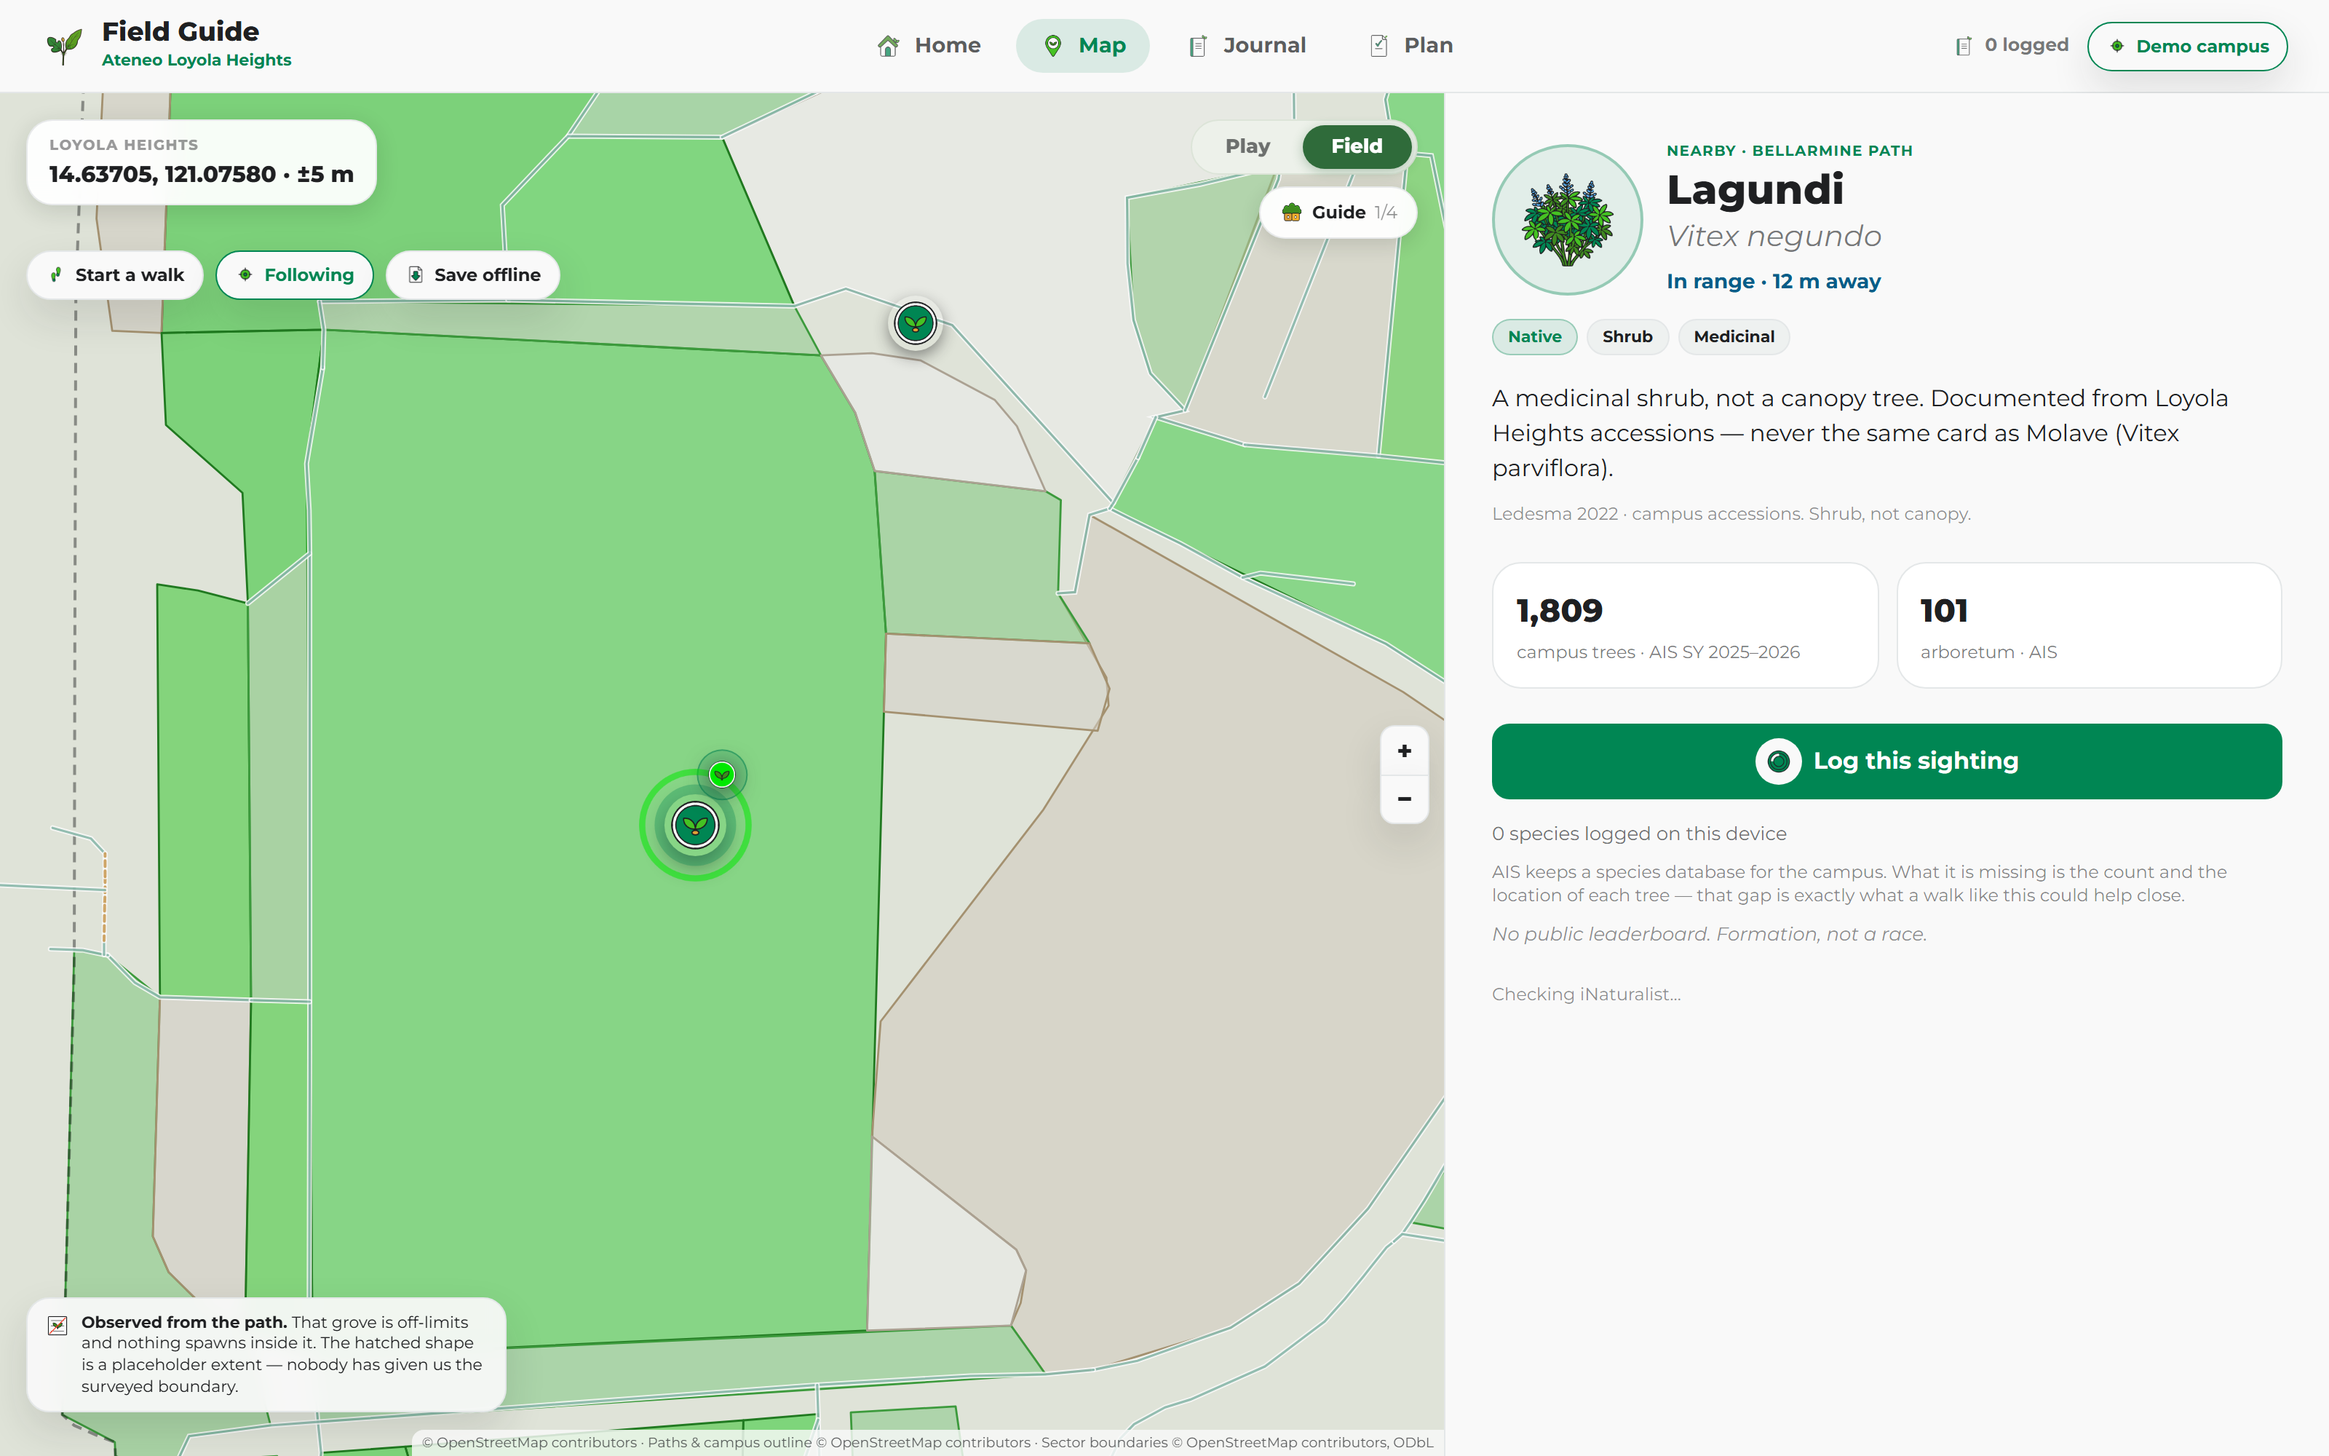
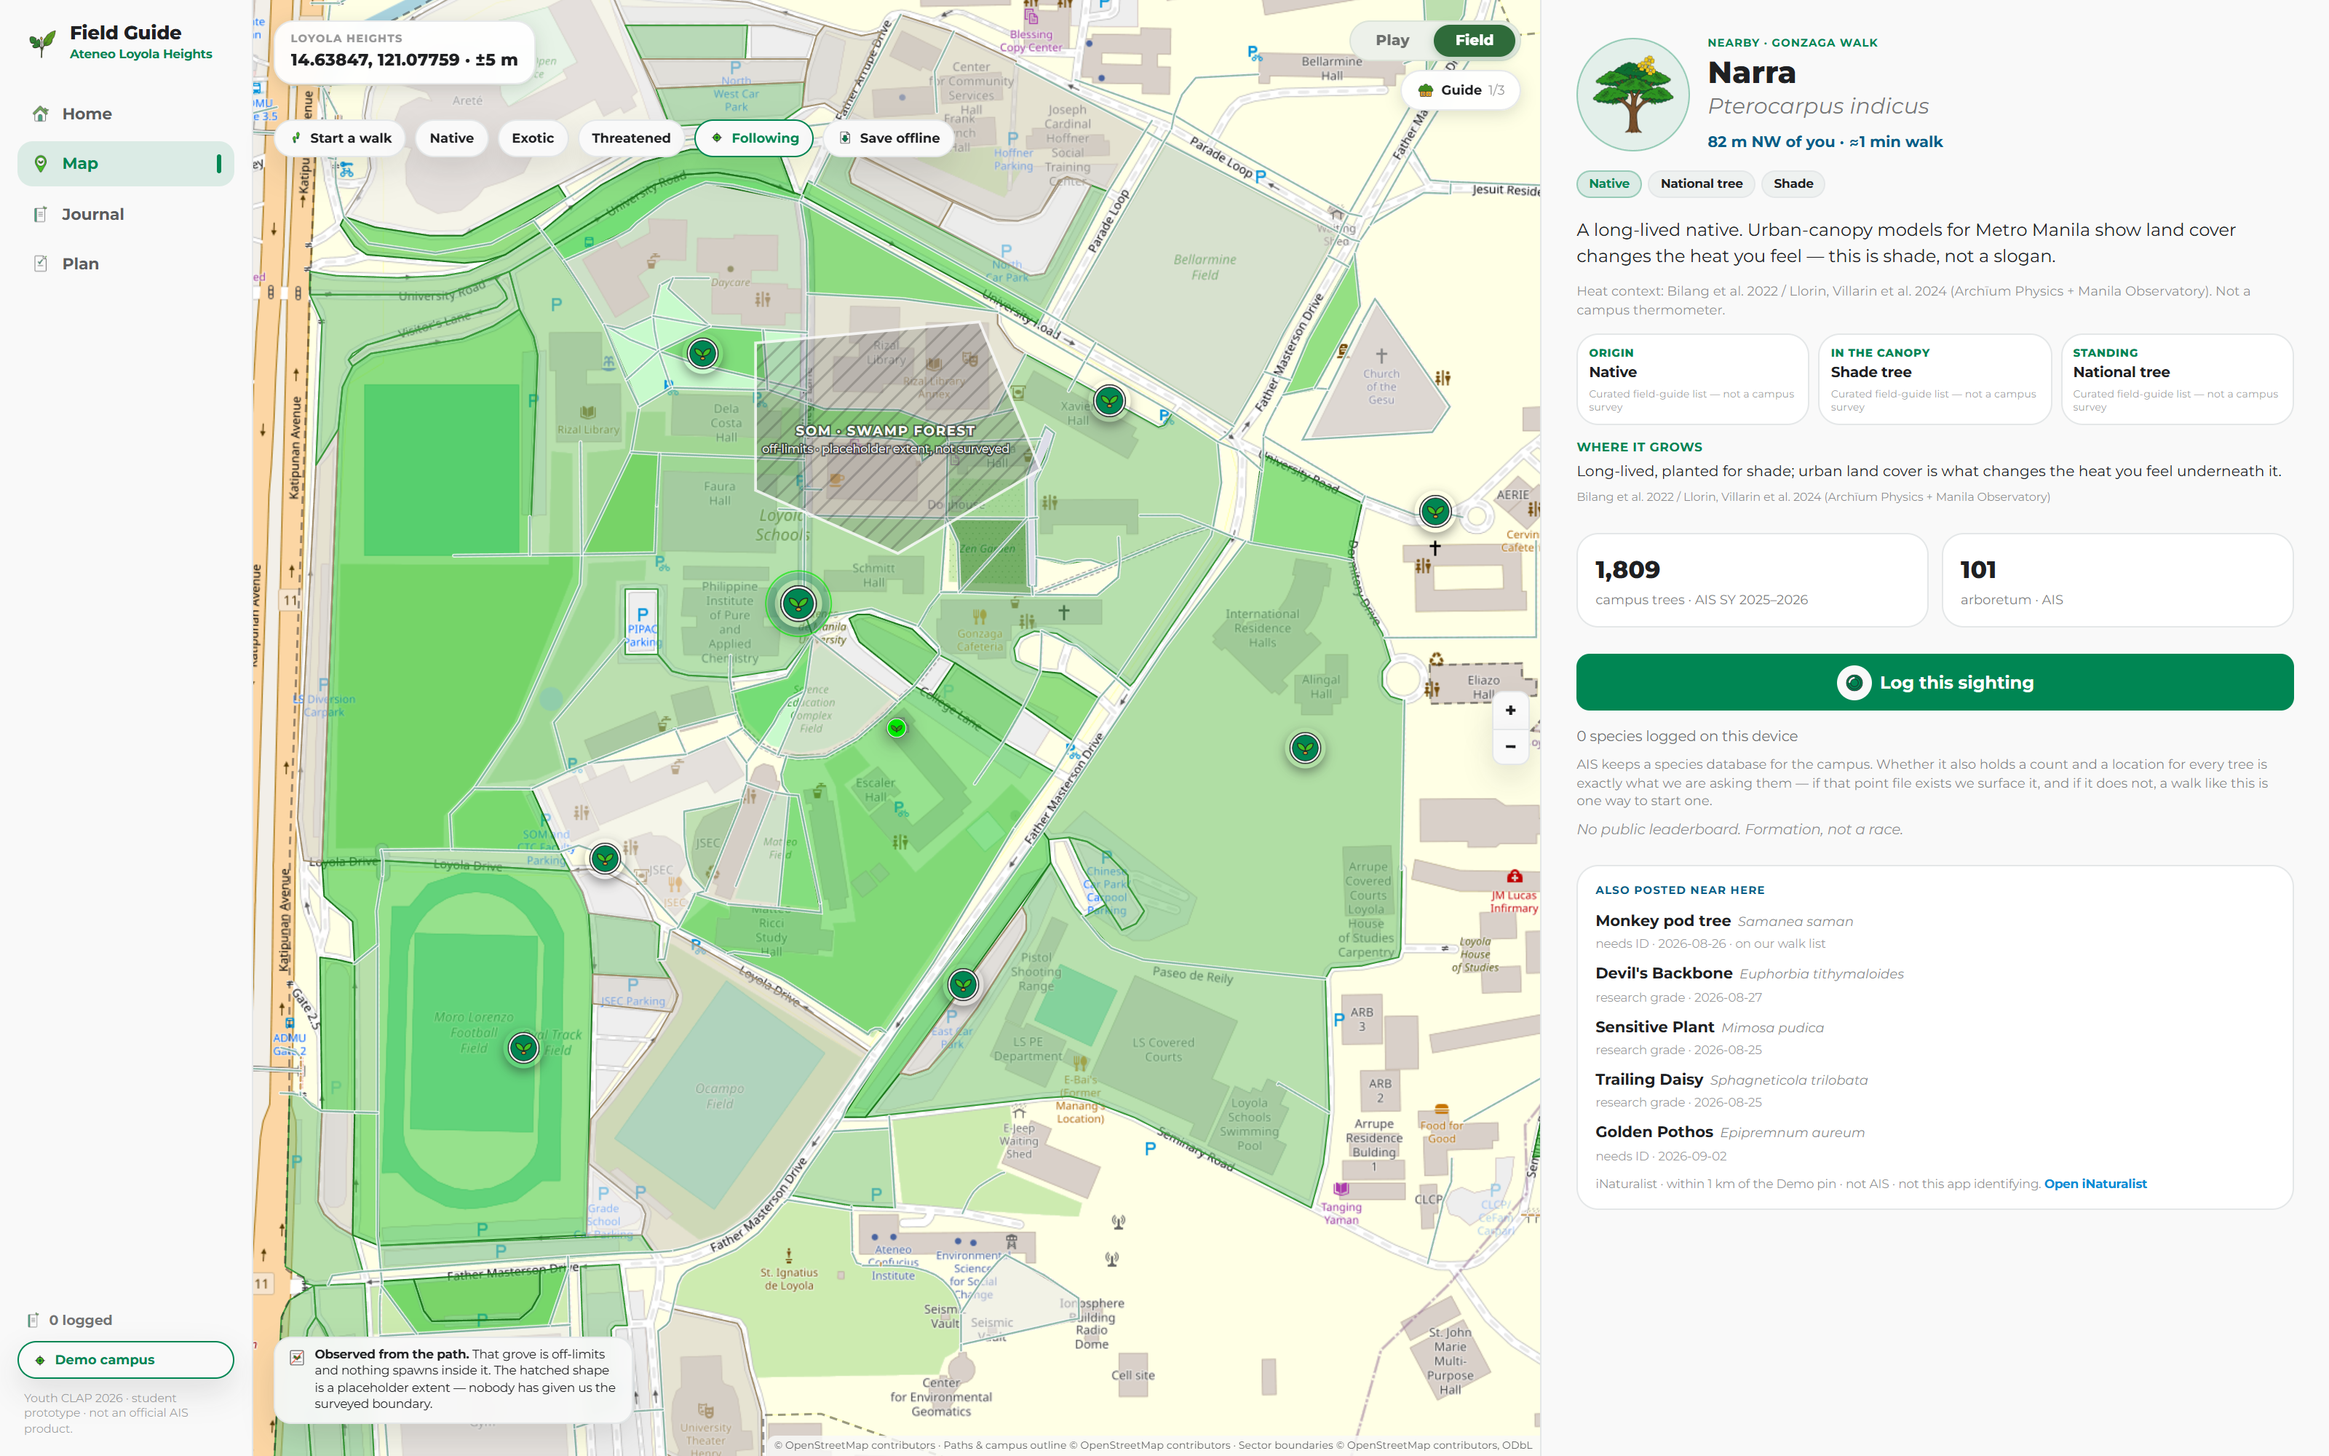
A desktop kiosk shell, and the roadmap closed out
The last of the open 09-02 consensus rows.

DesktopRail replaces DesktopTopBar. The reason is the projector: at 1440 px a
horizontal header spends the scarcest axis - vertical - on navigation that
never changes, and the map is what the room came to see. A rail spends the
abundant axis instead. Every control the header carried is still there, in
one place, and the active route is marked by a left bar as well as a wash so
it reads in greyscale. The phone is untouched and keeps its bottom nav.

Measured, not assumed: 1600x1000 at DPR 2 gives left rail, map filling the
centre, and encounter + citations + AIS stats in the right column. At 390 px
the document overflow is 0 and the bottom nav is unchanged.

play-desktop.png and field-desktop.png re-shot against the new shell at
3200x2000, matching the originals exactly, so the deck's asset index still
points at what the app actually looks like.

ROADMAP records the ten rows closed, the six things still blocked on other
people, and one thing found on the way: tsconfig does not cover test/, so
the test files are not typechecked by the gate. The make() helper in
journal.test.ts had drifted out of sync with Sighting because of it.

Three rows were closed on inspection rather than rebuilt - the stat strip
already carried its year, sectorProgress was already wired, and report-a-tree
already had its data layer. The roadmap was stale, not the code.

Gate: build 0, test 0 (158 pass), lint 0.

diff --git a/web-forest/src/app.tsx b/web-forest/src/app.tsx
@@ -1731,7 +1731,17 @@ function PlanScreen({ is_desktop }: { is_desktop: boolean }) {
   );
 }
 
-function DesktopTopBar({
+/**
+ * The desktop shell: a persistent left rail, the map filling the centre, and
+ * the encounter + citations in a right column.
+ *
+ * This replaces a top bar. The reason is the projector: at 1440 px a
+ * horizontal header spends the scarcest axis — vertical — on navigation that
+ * never changes, and the map is the thing the room came to see. A rail spends
+ * the abundant axis instead. Every control the header carried is still here,
+ * in one place, and the phone is untouched: it keeps its bottom nav.
+ */
+function DesktopRail({
   route,
   onRoute,
   is_demo,
@@ -1755,24 +1765,32 @@ function DesktopTopBar({
     { id: "/plan", label: "Plan", Icon: PlanIcon },
   ];
   return (
-    <header
-      className="flex items-center"
-      style={{ height: 64, background: "#F9F9F9", borderBottom: "1.5px solid #E4E7E8", padding: "0 28px", flexShrink: 0 }}
+    <nav
+      className="flex flex-col"
+      style={{
+        width: is_wide ? 232 : 196,
+        flexShrink: 0,
+        height: "100%",
+        background: "#F9F9F9",
+        borderRight: "1.5px solid #E4E7E8",
+        padding: "22px 16px 18px",
+      }}
     >
       <button
         onClick={() => onRoute("/")}
         className="flex items-center gap-2.5"
-        style={{ width: is_wide ? 260 : 200, flexShrink: 0, textAlign: "left" }}
+        style={{ textAlign: "left", padding: "0 6px" }}
       >
         <PlantMark size={32} />
-        <span>
-          <span style={{ display: "block", fontWeight: 800, fontSize: 18, lineHeight: 1 }}>Field Guide</span>
+        <span style={{ minWidth: 0 }}>
+          <span style={{ display: "block", fontWeight: 800, fontSize: 17, lineHeight: 1 }}>Field Guide</span>
           <span style={{ display: "block", fontSize: 11, color: "#008653", fontWeight: 700, marginTop: 2 }}>
             Ateneo Loyola Heights
           </span>
         </span>
       </button>
-      <nav className="flex-1 flex items-center justify-center" style={{ gap: is_wide ? 8 : 2, minWidth: 0 }}>
+
+      <div className="flex flex-col" style={{ gap: 4, marginTop: 26 }}>
         {tab.map(({ id, label, Icon }) => {
           const is_active = route === id;
           return (
@@ -1780,43 +1798,58 @@ function DesktopTopBar({
               key={id}
               onClick={() => onRoute(id)}
               aria-current={is_active ? "page" : undefined}
-              className="flex items-center gap-2"
+              className="flex items-center gap-2.5"
               style={{
                 fontWeight: 700,
                 fontSize: 14.5,
                 color: is_active ? "#008653" : "rgba(31,32,34,0.72)",
                 background: is_active ? "rgba(0,134,83,0.12)" : "transparent",
-                borderRadius: RADIUS.pill,
-                padding: is_wide ? "8px 16px" : "8px 11px",
-                whiteSpace: "nowrap",
+                borderRadius: 14,
+                padding: "10px 12px",
+                textAlign: "left",
+                width: "100%",
                 transition: "background .18s ease, color .18s ease",
               }}
             >
               <Icon size={19} active={is_active} />
               {label}
+              {/* Active state is carried by the left bar as well as the wash,
+                  so the current route is readable in greyscale too. */}
+              {is_active && (
+                <span
+                  style={{
+                    marginLeft: "auto",
+                    width: 4,
+                    height: 18,
+                    borderRadius: 999,
+                    background: "#008653",
+                  }}
+                />
+              )}
             </button>
           );
         })}
-      </nav>
-      <div className="flex items-center gap-3" style={{ width: is_wide ? 260 : 200, flexShrink: 0, justifyContent: "flex-end" }}>
-        {/* Replaces a dead `EN` span that looked like a locale switcher this app
-            has never had. This one is a real number from the real journal. */}
-        {is_wide && (
-          <button
-            onClick={() => onRoute("/journal")}
-            className="flex items-center gap-1.5"
-            style={{ fontSize: 12.5, fontWeight: 700, color: "rgba(31,32,34,0.62)" }}
-          >
-            <JournalIcon size={17} active={false} />
-            {seen_count} logged
-          </button>
-        )}
+      </div>
+
+      <div style={{ marginTop: "auto", display: "flex", flexDirection: "column", gap: 10 }}>
+        {/* A real number from the real journal — never a dead locale switcher. */}
+        <button
+          onClick={() => onRoute("/journal")}
+          className="flex items-center gap-1.5"
+          style={{ fontSize: 12.5, fontWeight: 700, color: "rgba(31,32,34,0.62)", padding: "0 6px" }}
+        >
+          <JournalIcon size={17} active={false} />
+          {seen_count} logged
+        </button>
         <Chip is_on={is_demo} onClick={onDemo}>
           <LocateIcon size={15} />
           Demo campus
         </Chip>
+        <p style={{ fontSize: 10.5, color: "rgba(31,32,34,0.42)", lineHeight: 1.35, padding: "0 6px" }}>
+          Youth CLAP 2026 · student prototype · not an official AIS product.
+        </p>
       </div>
-    </header>
+    </nav>
   );
 }
 
@@ -2884,8 +2917,12 @@ export default function App() {
   return (
     <div style={{ height: "100%", background: "#F9F9F9", color: "#1F2022", overflowX: "hidden" }}>
       {is_desktop ? (
-        <div style={{ height: "100%", display: "flex", flexDirection: "column" }}>
-          <DesktopTopBar route={route} onRoute={go} is_demo={is_demo} onDemo={() => setDemo((d) => !d)} seen_count={seen.size} is_wide={is_wide} />
+        /* Rail down the left, everything else in the column beside it. The
+           inner column keeps flex-direction column so each route's own
+           flex-1 sizing is unchanged from the top-bar shell. */
+        <div style={{ height: "100%", display: "flex" }}>
+          <DesktopRail route={route} onRoute={go} is_demo={is_demo} onDemo={() => setDemo((d) => !d)} seen_count={seen.size} is_wide={is_wide} />
+          <div style={{ flex: 1, minWidth: 0, height: "100%", display: "flex", flexDirection: "column" }}>
           {route === "/" && <HomeScreen is_desktop onWalk={() => go("/map")} onPlan={() => go("/plan")} />}
           {/* Play goes full-bleed on desktop too — a projector wants the map,
               not a 38% reading column beside it. Field keeps the column. */}
@@ -2964,6 +3001,7 @@ export default function App() {
           )}
           {route === "/journal" && <JournalScreen sighting={sighting} seen={seen} is_desktop />}
           {route === "/plan" && <PlanScreen is_desktop />}
+          </div>
           {is_camera_open && (
             <CameraSheet
               pick_code={pick_code}

diff --git a/ROADMAP.md b/ROADMAP.md
@@ -680,3 +680,46 @@ asphalt it is, but it carries no species and cannot be tapped to log a tree.
 | three.js for the map's grass and birds | Asked for directly; **not done, and this is a deliberate deviation.** Ambient life ships as SVG/CSS instead — canopy tufts scattered on measured-vegetated sectors, drifting birds — at ~0 kB. three.js is ~168 kB gzipped against a 128 kB app whose whole story is working offline on a hall projector, and it would buy decoration, not a mechanic. The adopted 3D scope from the 09-03 spec (a `<model-viewer>` character and the unboxing reveal) is untouched and still the right place for it — `CHARACTER_MODEL_SLOT` marks where the `.glb` drops in. Say the word and I will pull it in for the map too. |
 | Species per sector | Only 2 sectors inherited provisional species from the 09-03 demo seed, and 1 of those sat on paved ground and was taken off. The AIS inventory (due 09-09) is the real source; the map does not invent assignments in the meantime. |
 | Blind-box reveal, per-sector badges | Still blocked on the P0 ranking decision, unchanged. |
+
+## 2026-09-05 — the 09-02 consensus rows, closed
+
+Ran the open rows from the 09-02 UI-consensus set. Three of them turned out
+to be **already shipped** and were closed on inspection rather than rebuilt:
+the stat strip already read `AIS · SY 2025–2026` (source *and* year),
+`sectorProgress` was already wired into the sector card, and the report-a-tree
+**data layer** (`entry_kind`, `reported_name`, distinct GeoJSON `feature_type`)
+already existed — only the affordance was missing.
+
+Verifier-first throughout: every row below carries a test that encodes its
+benchmark. Gate at the tip: `build 0 · test 0 (158 pass) · lint 0`.
+
+| Item | Surface | Benchmark | Status |
+|---|---|---|---|
+| End a walk with a receipt | `journal.ts` · `WalkReceiptSheet` | Distance is the haversine sum of the recorded fix track; sectors entered in order; species seen and which were new; demo-driven walks say so on screen; no rank key at any depth | **done** — `Walk` gained a breadcrumb trail (`trackWalk`, 6 m floor so standing still adds nothing), `endWalk` returns a `WalkReceipt`, no-fix walks report `is_distance_unknown` rather than a confident 0 m |
+| Quote the walk in minutes | `geo.ts` · `NearbyBar` · sector card | `249 m W of you` also reads `≈3 min walk`; pace stated on screen; metres stay primary | **done** — `WALK_PACE_MS = 1.3`, pace printed next to the figure |
+| Seen-of-total with a stable index | `journal.ts` · `/journal` | `n of 9 species seen` against the curated list, not the padded grid; each entry carries a stable local index | **done** — `species_total` off `picker_order`; `entry_index` assigned once and never reissued, so deleting an early entry does not renumber the rest |
+| Say what a species is actually like | `data.ts` · `SpeciesBack` | ≥3 attribute tiles + a habitat line, each with a source; every field traces to a citation already in `data.ts` | **done** — a test refuses any citation whose author token does not appear in that species' own record; where our curation is the only warrant, `CURATED_SOURCE` says so instead of borrowing a paper's authority |
+| Warn where misidentification bites | Lagundi / Molave cards | Caution names the other and the difference; the two stay separate records | **done** — renders **above** the name in sheet and desktop column |
+| Report a tree the guide lacks | camera sheet · export | Saves species-unknown + coordinate + accuracy + note, leaves as a distinct feature type | **done** — "It is not on this list"; a guess is fine, Unknown is fine, the position is the part AIS does not have |
+| Make a pin say what kind of thing it is | `src/pin.ts` · `play-map.tsx` | Native / exotic / threatened distinguishable **in greyscale** | **done** — inner shape (round / square / triangle) + ring weight, threatened heaviest. Taxonomy lives in `pin.ts` because the runner strips types from `.ts` but cannot parse JSX |
+| Filter the map by what you care about | `geo_chip` · both maps | Chips filter by native / exotic / threatened; restricted hatch not filterable away | **done** — empty set means show everything; the selected encounter is never filtered out from under its own card |
+| Ask what the student noticed | camera sheet | A one-line prompt on save; stays optional | **done** — "What did you notice?" replaces a labelled empty box |
+| Desktop kiosk shell | `DesktopRail` | 1440 px: persistent left rail, map centre, encounter + stats right column; 390 px unchanged, no horizontal overflow | **done** — measured 0 px overflow at 390 with the bottom nav unchanged. `play-desktop.png` and `field-desktop.png` re-shot at 3200×2000 against the new shell |
+
+### Still blocked, and by what
+
+| Item | Blocker |
+|---|---|
+| Species per sector | The AIS inventory. 6 of 68 walkable sectors name anything to find until it lands |
+| Real walkable path graph | The ADMUNAV graph has not been shared |
+| Landmark tree oral history | An actual interview or a dated photo. The card ships with the gap stated |
+| Ledesma / Fatallo full PDFs | The mirror has no `pdf_url`; cards stay at abstract-level claims |
+| PWA install on a real handset | Never tested on an actual phone |
+| 3D character offline | `<model-viewer>` + every `.glb` must be precached or the character is a blank box on stage. Not verified |
+
+### Noted while working
+
+The pre-existing `make()` helper in `journal.test.ts` was missing `entry_kind`
+and `reported_name`, so its literal no longer satisfied `Sighting`. It went
+unnoticed because `tsconfig` does not cover `test/` — worth knowing that the
+test files are **not** typechecked by the gate.
